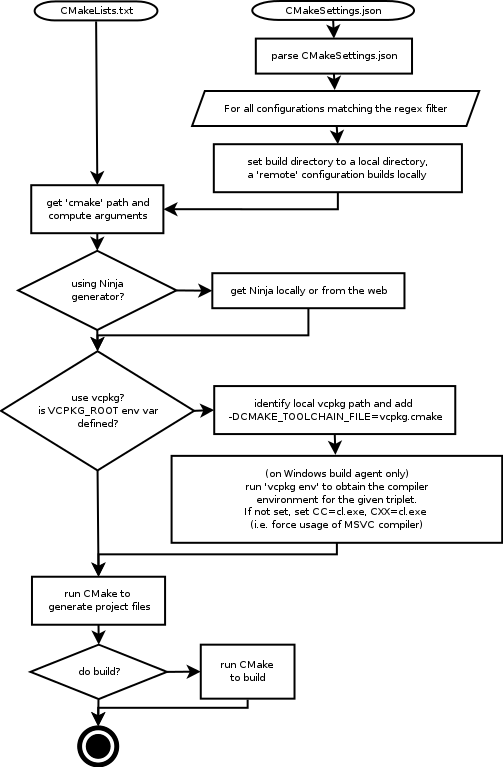
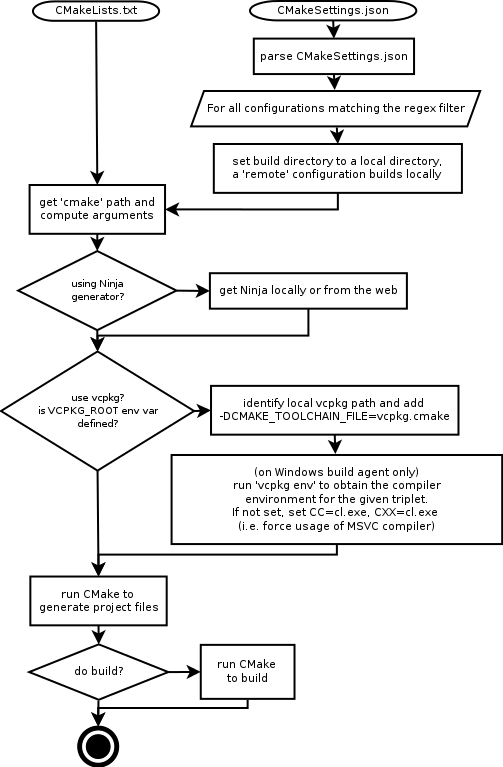
doc typo fix; larger font for flowcharts

diff --git a/overview.md b/overview.md
@@ -28,12 +28,12 @@ It can leverage the previous execution of the 'Run vcpkg' task by using the `VCP
 
 ### Why not one single task?
 
-Because you could use vcpkg only, without CMake. Or you could use CMake without vcpkg.
+Because you could use vcpkg only without CMake. Or you could use CMake without vcpkg.
 
 ### Would creating an ad-hoc bash/powershell script be easier?
 
 Absolutely! Anyone can use this task as an inspiration for writing their own scripts to suite specific needs.
-The purpose of the tasks is to streamline and to simplyfy the usage of vcpkg and CMake on build servers.
+The purpose of the tasks is to streamline and to simplify the usage of vcpkg and CMake on build servers.
 
 ## Please get the source and contribute
 
